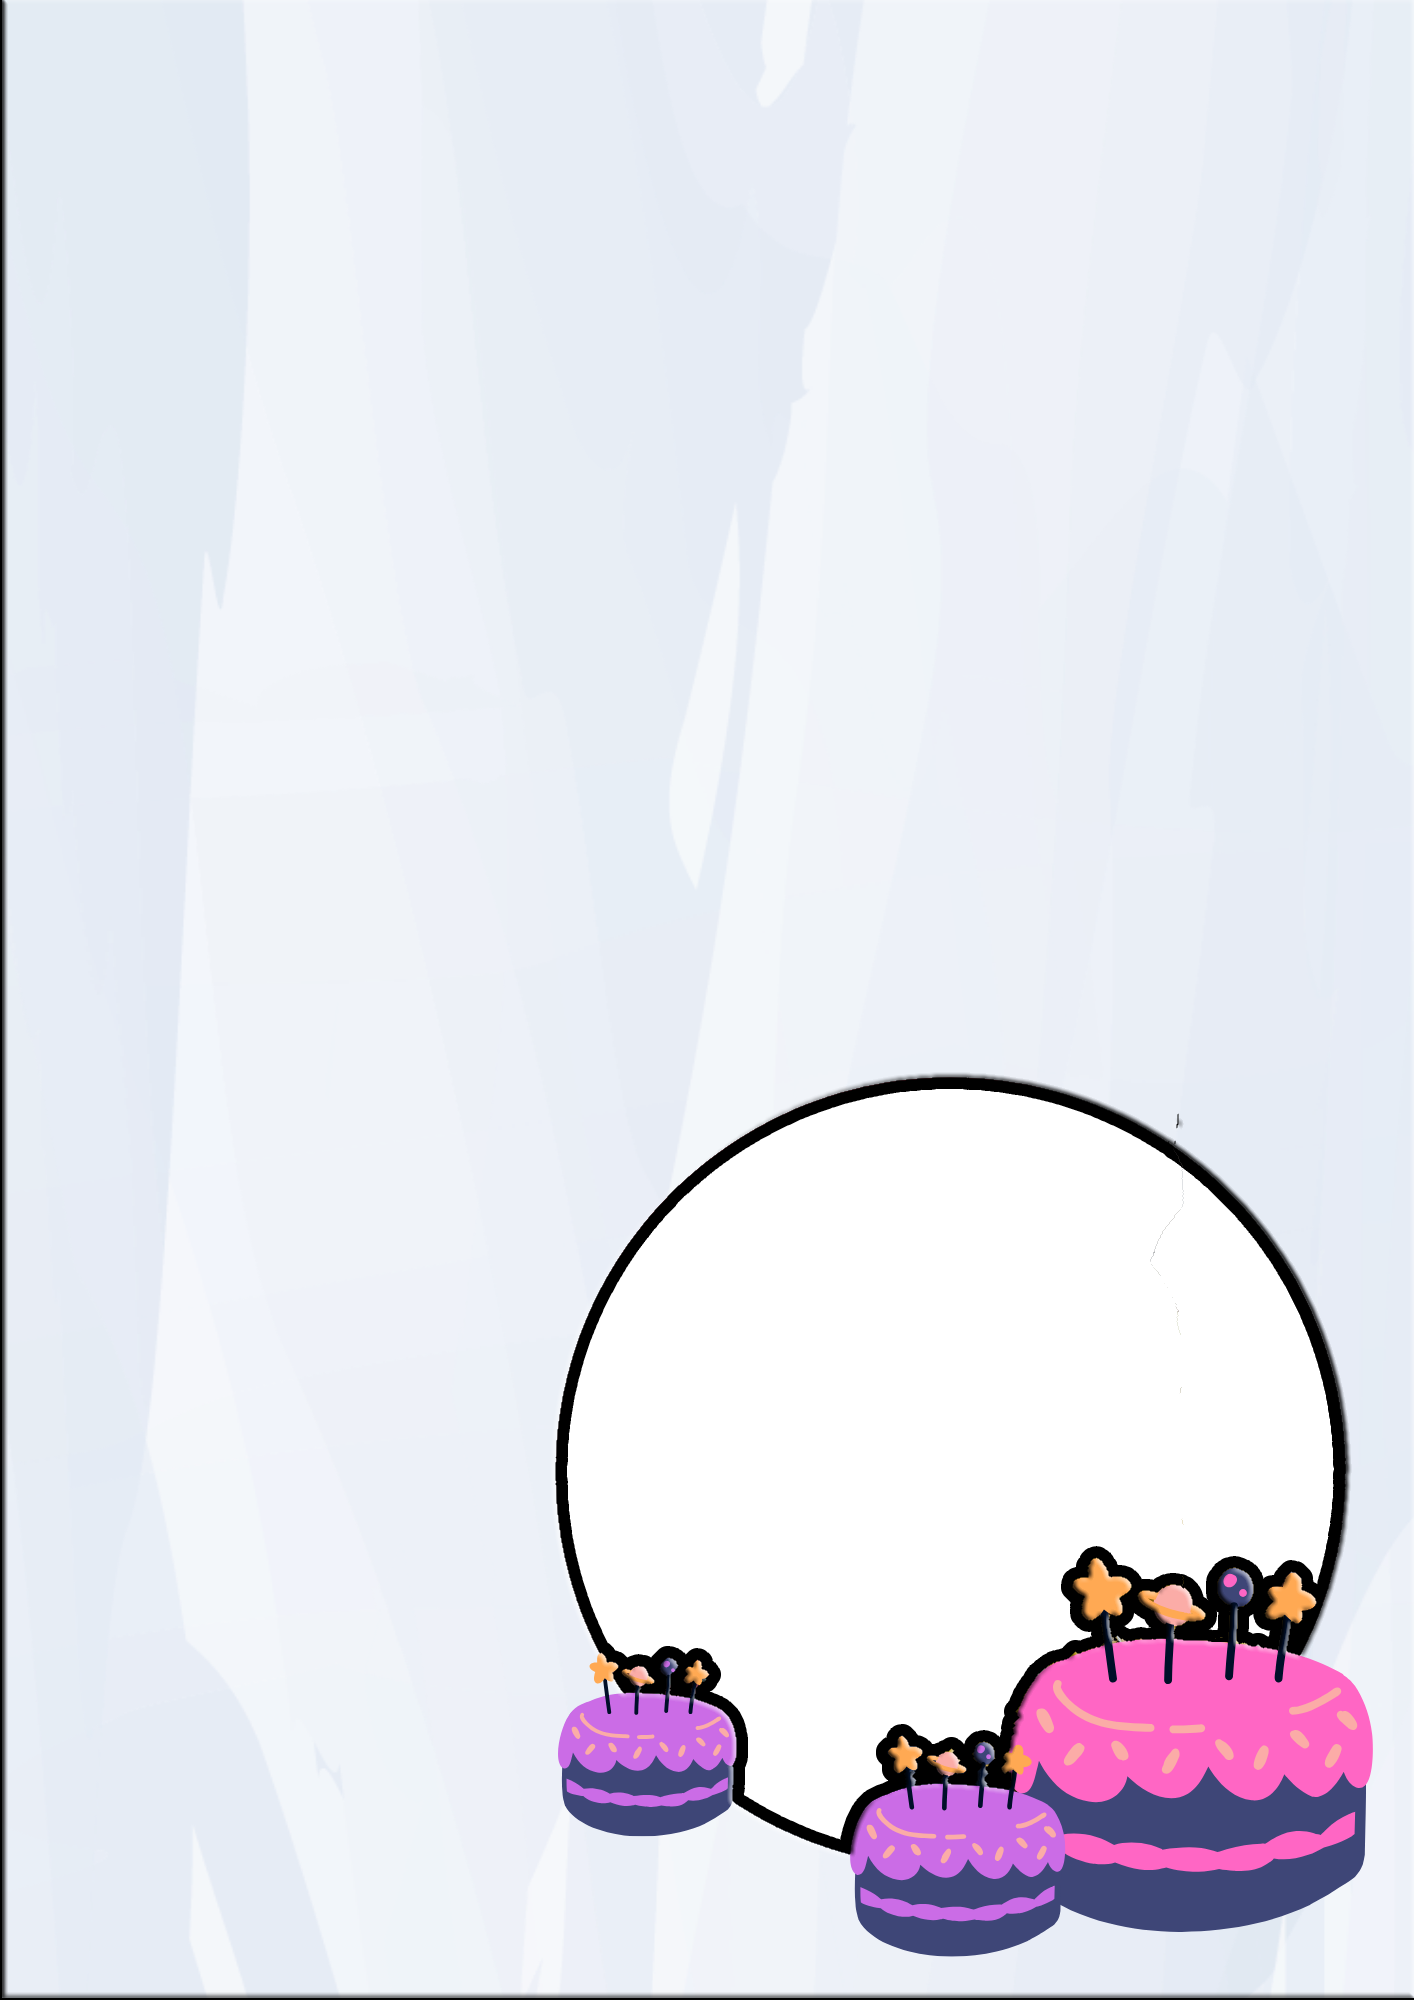
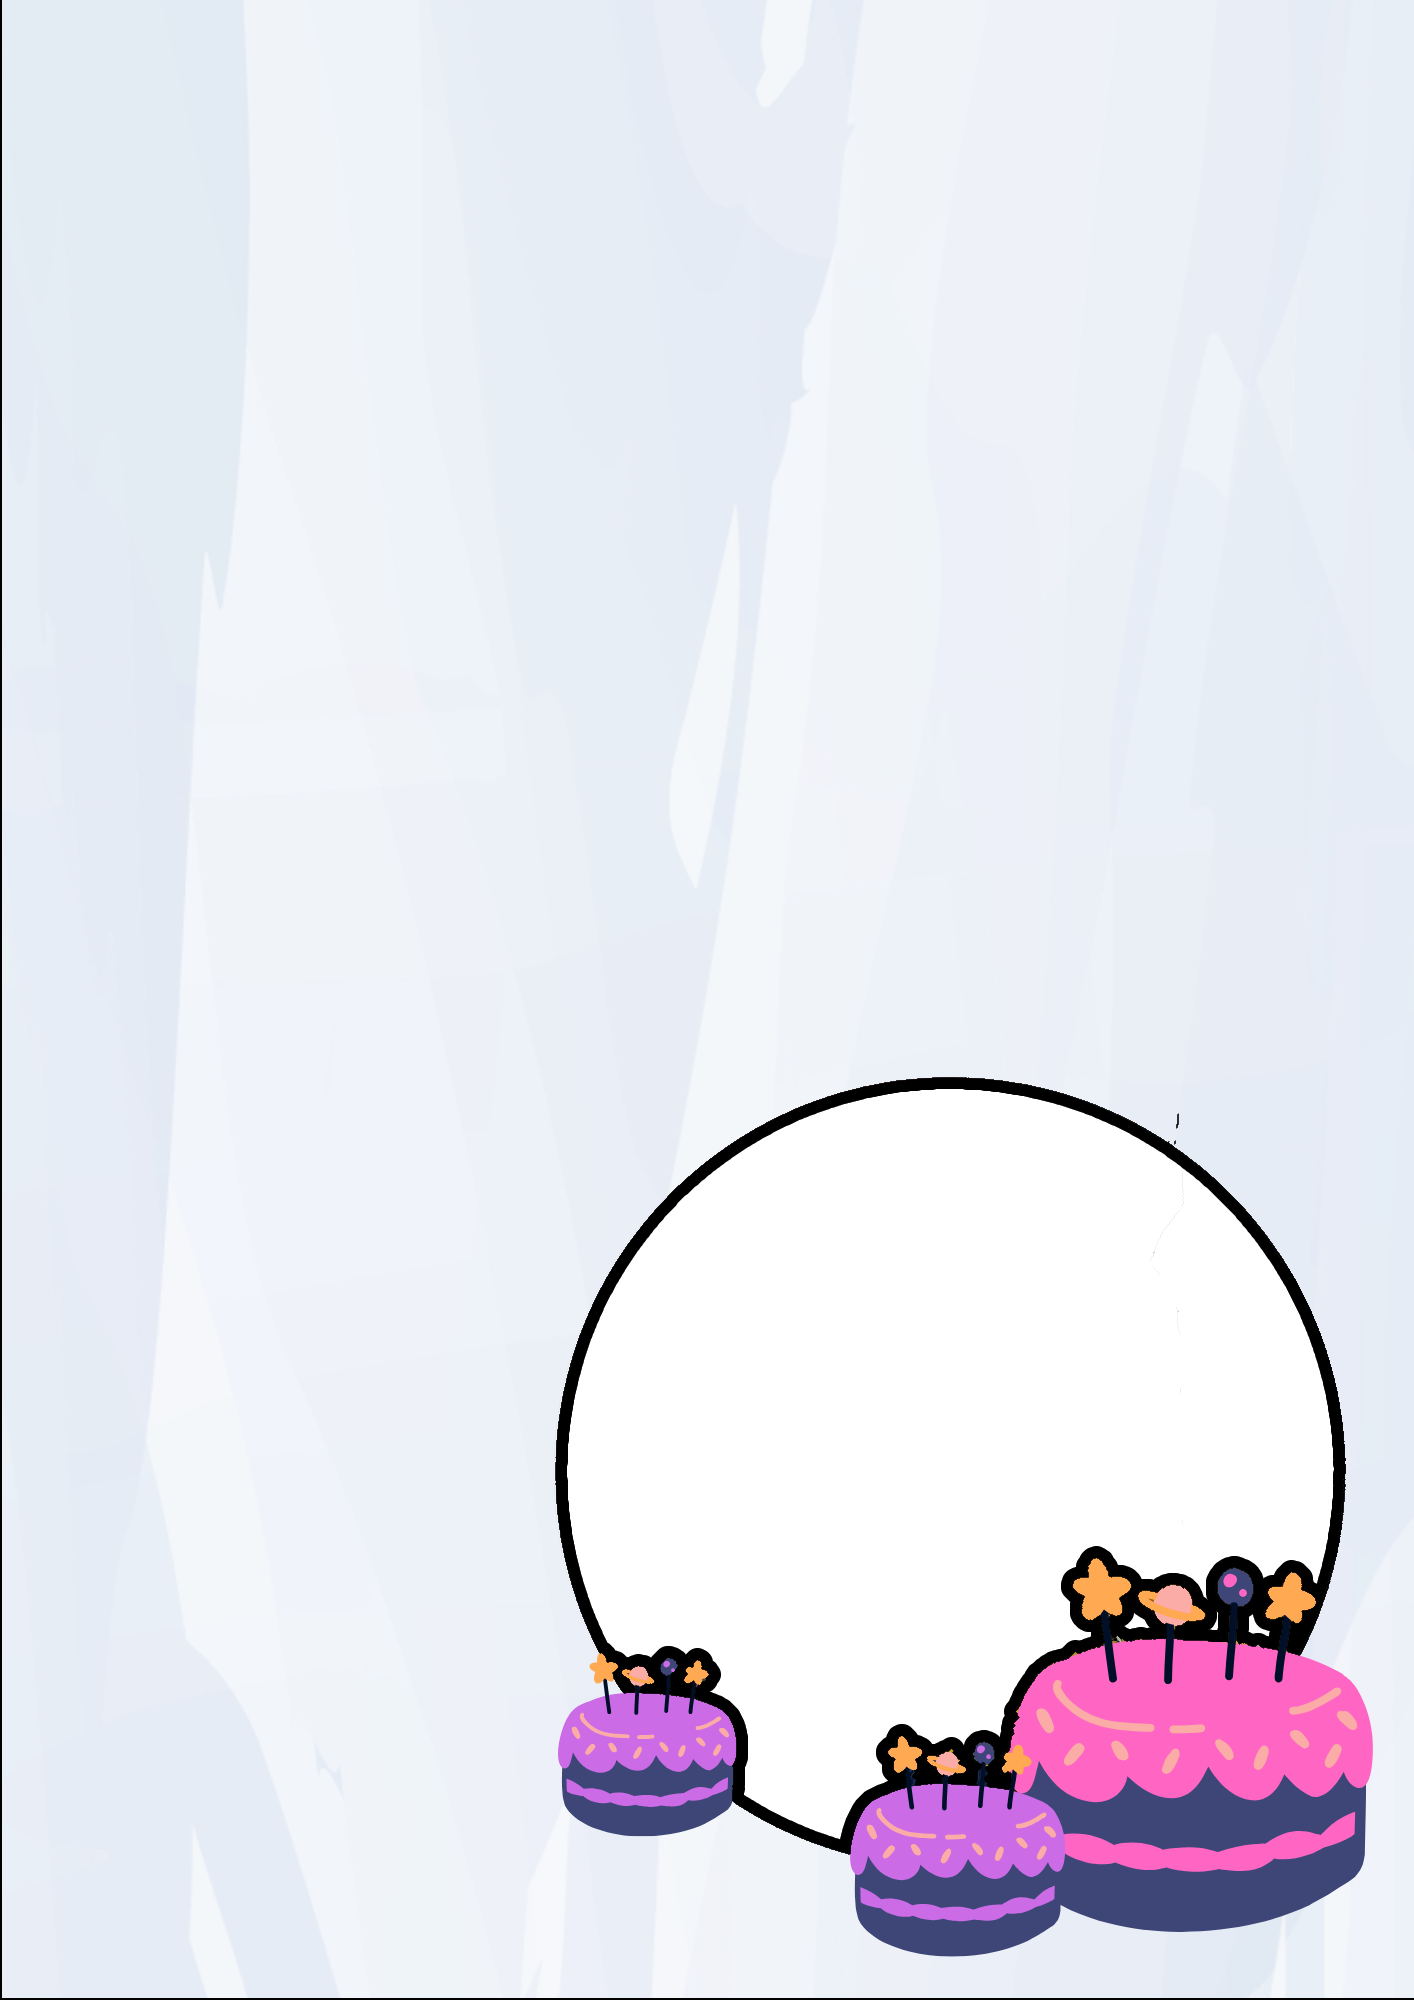
bugs fixed in editor

diff --git a/lib/app/features/editor/editor_canvas.dart b/lib/app/features/editor/editor_canvas.dart
@@ -168,7 +168,7 @@ class EditorPage extends GetView<EditorController> {
                         "Rendering item: ${item.id}, type: ${item.runtimeType}",
                       );
                       return (item is StackTextItem && item.content != null)
-                          ? StackTextCase(item: item, isFitted: false)
+                          ? StackTextCase(item: item, isFitted: true)
                           : (item is StackImageItem && item.content != null)
                           ? StackImageCase(item: item)
                           : (item is ColorStackItem1 && item.content != null)
@@ -469,7 +469,8 @@ class EditorPage extends GetView<EditorController> {
       floatingActionButton: FloatingActionButton(
         heroTag: 'addText',
         onPressed: () {
-          controller.addText("550 board way hiland ");
+          controller.addText('''Hi i Love you my
+how are you brother ''');
         },
         tooltip: 'Add Text',
         child: const Icon(Icons.text_fields),
@@ -1062,8 +1063,8 @@ class _BorderPainter extends CustomPainter {
   void paint(Canvas canvas, Size size) {
     final Paint paint = Paint()
       ..color = Get.find<EditorController>().draggedItem.value == null
-          ? Colors.blue
-          : Colors.red
+          ? AppColors.accent
+          : AppColors.accent
       ..style = PaintingStyle.stroke
       ..strokeWidth = stroke;
 

diff --git a/lib/app/features/editor/controller.dart b/lib/app/features/editor/controller.dart
@@ -14,6 +14,7 @@
 import 'dart:math' as math;
 
 import 'package:cardmaker/app/features/editor/editor_canvas.dart';
+import 'package:cardmaker/app/features/home/home.dart';
 import 'package:cardmaker/models/card_template.dart';
 import 'package:cardmaker/services/storage_service.dart';
 import 'package:cardmaker/stack_board/lib/flutter_stack_board.dart';
@@ -408,16 +409,18 @@ class EditorController extends GetxController {
       offset = Offset(100, 100);
       size = const Size(200, 50);
     }
+
+    final content = TextItemContent(
+      data: data,
+      googleFont: 'Roboto',
+      style: const TextStyle(fontSize: 24, color: Colors.black),
+      textAlign: TextAlign.center,
+    );
     final textItem = StackTextItem(
       id: UniqueKey().toString(),
-      size: size,
+      size: getTextWidth(text: data, style: content.style!),
       offset: offset,
-      content: TextItemContent(
-        data: data,
-        googleFont: 'Roboto',
-        style: const TextStyle(fontSize: 24, color: Colors.black),
-        textAlign: TextAlign.center,
-      ),
+      content: content,
     );
     boardController.addItem(textItem);
     _undoStack.add(_ItemState(item: textItem, action: _ItemAction.add));

diff --git a/lib/app/features/editor/text_editor.dart b/lib/app/features/editor/text_editor.dart
@@ -218,7 +218,10 @@ class TextStyleController extends GetxController {
         maxLines: null,
       );
 
-      const double maxWidth = 200.0;
+      // const double maxWidth = 200.0; //for not using fittedbox
+
+      const double maxWidth = 800.0;
+
       painter.layout(maxWidth: maxWidth);
 
       final width = painter.width.clamp(50.0, maxWidth);
